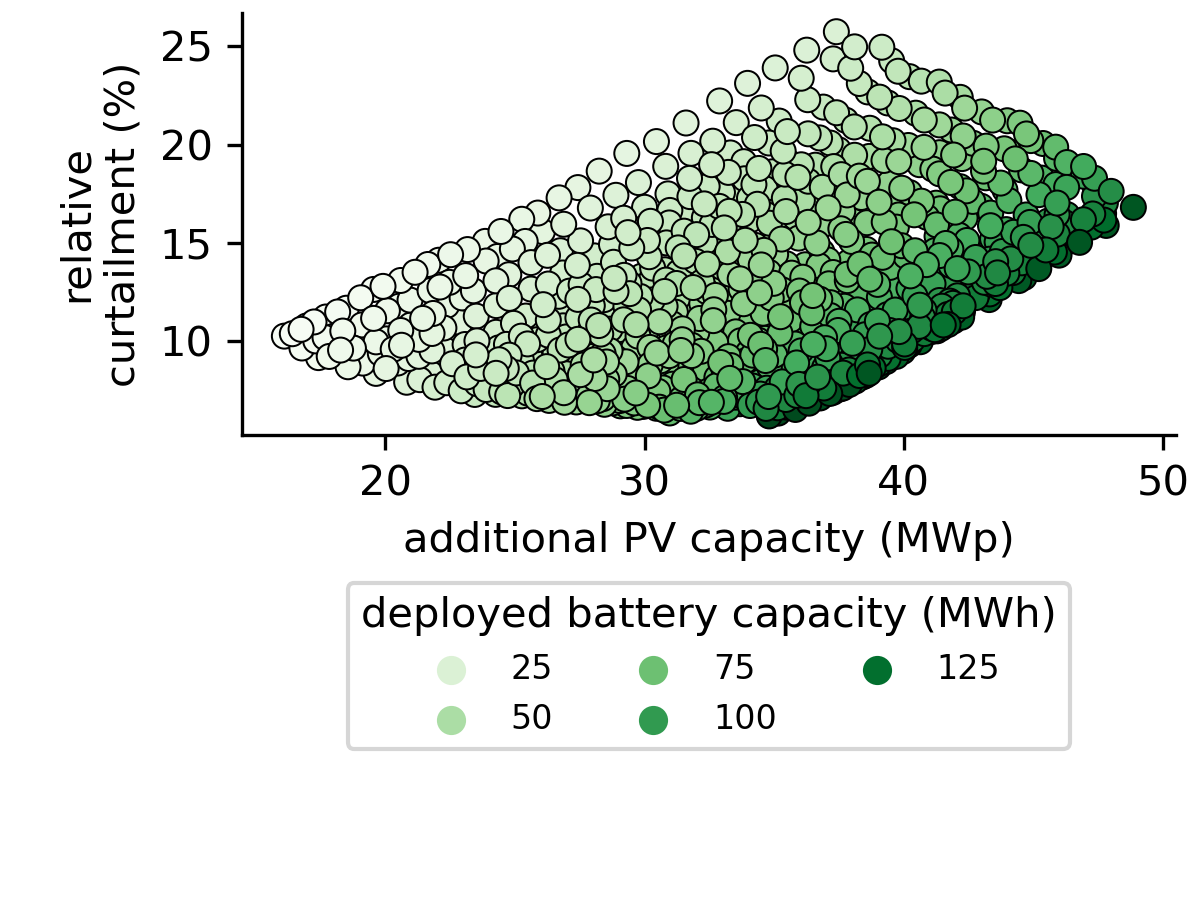
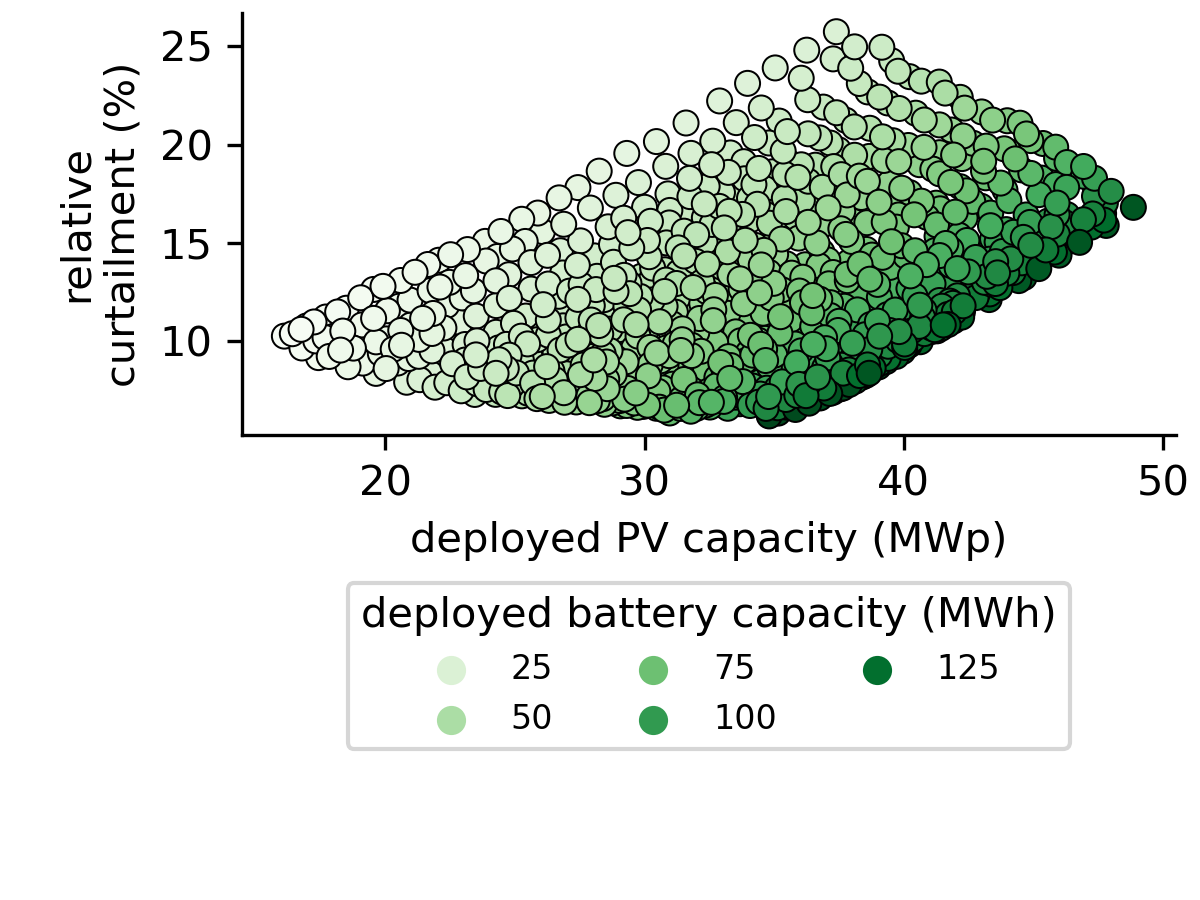
session with emiel

Changed region(s): [[0.3392, 0.56, 0.8633, 0.6222]]

diff --git a/experiments/cablepool/analysis/cablepool_postprocess_figures.py b/experiments/cablepool/analysis/cablepool_postprocess_figures.py
@@ -45,7 +45,7 @@ def determine_cost_for_battery_config(
     power_cost = energy_cost_to_power_cost(energy_cost)
     cost_per_kwh = (storage_duration * energy_cost + power_cost) / storage_duration
 
-    return np.round(cost_per_kwh)
+    return [int(cost) for cost in cost_per_kwh]
 
 
 from functools import partial
@@ -63,7 +63,7 @@ twiny_energy_cost_for_6h_battery = partial(
 from cablepool_postprocess_data import experiments, PV_COST_DICT, BAT_COST_DICT
 
 # experiments
-for experiment in experiments:
+for experiment in ["both_ratios"]:
     dataset_filename = f"{experiment}_additional.pkl"
     IMAGE_FOLDER = FOLDER / "images" / experiment
     IMAGE_FOLDER.mkdir(exist_ok=True, parents=True)
@@ -116,6 +116,7 @@ for experiment in experiments:
             ha="center",
             xytext=(0, 5),
             textcoords="offset points",
+            color="gray",
         )
 
     default_matplotlib_save(fig, IMAGE_FOLDER / "pv_deployment_vs_cost_z_battery.png")
@@ -145,7 +146,7 @@ for experiment in experiments:
     ax2.set_xlim(ax.get_xlim())
     ax2.set_xticks(bottom_xticks)
     ax2.set_xticklabels(twiny_energy_cost_for_6h_battery(bottom_xticks))
-    ax2.set_xlabel("2h battery capacity cost (€/kWh)")
+    ax2.set_xlabel("6h battery capacity cost (€/kWh)")
 
     ax.legend(
         bbox_to_anchor=(0.5, -0.2),
@@ -167,9 +168,11 @@ for experiment in experiments:
         ax.annotate(
             f"{year}",
             xy=(mean, y),
-            ha="center",
-            xytext=(0, 1),
+            ha="right",
+            va="top",
+            xytext=(-1, -1),
             textcoords="offset points",
+            color="gray",
         )
     default_matplotlib_save(fig, IMAGE_FOLDER / "battery_deployment_vs_cost_z_pv.png")
 
@@ -255,8 +258,10 @@ for experiment in experiments:
         edgecolor="black",
     )
 
-    ax.set_xlabel("additional PV capacity (MWp)")
+    ax.set_xlabel("deployed PV capacity (MWp)")
     ax.set_ylabel("relative\ncurtailment (%)")
+    ax.ylim = (0, 21)
+    ax.set_yticks([0, 5, 10, 15, 20])
 
     ax.legend(
         bbox_to_anchor=(0.5, -0.35),
@@ -280,6 +285,8 @@ for experiment in experiments:
     fig, ax = default_matplotlib_style(fig, ax)
     fig.set_size_inches(4, 3)
 
+    df["curtailment"] = df["curtailment"] / 1000
+
     sns.scatterplot(
         x=pv_dc_col,
         y="curtailment",
@@ -290,10 +297,12 @@ for experiment in experiments:
         edgecolor="black",
     )
 
-    ax.set_xlabel("additional PV capacity (MWp)")
-    ax.set_xticks(relplot_ticks)
-    ax.set_xticklabels(relplot_labels)
-    ax.set_ylabel("curtailment (MWh)")
+    ax.set_xlabel("deployed PV capacity (MWp)")
+    ax.set_ylabel("absolute\ncurtailment (GWh)")
+
+    ## set y ticks
+    ax.ylim = (0, 16)
+    ax.set_yticks([0, 5, 10, 15])
 
     ax.legend(
         bbox_to_anchor=(0.5, -0.35),
@@ -349,6 +358,7 @@ for experiment in experiments:
             ha="center",
             xytext=(0, 5),
             textcoords="offset points",
+            color="gray",
         )
 
     default_matplotlib_save(
@@ -390,7 +400,6 @@ for experiment in experiments:
 
     # DC ratio plots for only both ratio experiments
     if experiment == "both_ratios":
-
         vmin, vmax = 1.4, 2
         cmap = sns.color_palette(palette="YlOrBr", as_cmap=True)
         norm = plt.Normalize(vmin=vmin, vmax=vmax)

diff --git a/experiments/cablepool/analysis/data_only.py b/experiments/cablepool/analysis/data_only.py
@@ -1,0 +1,69 @@
+# %%
+import pandas as pd
+from pathlib import Path
+
+# %% constants
+FOLDER = Path(__file__).parent
+RESULT_FOLDER = FOLDER.parent / "results"
+RESOURCE_FOLDER = FOLDER / "resources"
+PV_COST_RANGE = (170, 420)
+BATTERY_ENERGY_COST_RANGE = (46, 299)
+BATTERY_POWER_COST_RANGE = (40, 510)
+
+
+# %% open loop for all PV_ts
+
+from cablepool_postprocess_data import experiments
+
+dfs = []
+# experiments
+for experiment in experiments:
+    dataset_filename = f"{experiment}_additional.pkl"
+
+    # read in data
+    df = pd.read_pickle(RESOURCE_FOLDER / dataset_filename)
+    df["pv_cost"] = df["pv_cost"] * 1000
+    df["battery_cost"] = df["battery_cost"] * 1000
+    dfs.append(df)
+
+# %%
+
+mid_prices = {
+    "pv": {
+        "2020": 398,
+        "2030": 266,
+        "2050": 199,
+    },
+    "battery": {
+        "2020": 367,
+        "2030": 222,
+        "2050": 105,
+    },
+}
+
+YEARS = ["2020", "2030", "2050"]
+TECHS = ["pv", "battery"]
+
+
+def get_closest_id(df, pv_cost, battery_cost):
+    distance = abs(df["pv_cost"] - pv_cost) + abs(df["battery_cost"] - battery_cost)
+    return df.loc[distance.idxmin(), "filename_export"]
+
+
+for df in dfs:
+    selected_ids = {
+        experiment: {
+            year: get_closest_id(
+                df,
+                mid_prices["pv"][year],
+                mid_prices["battery"][year],
+            )
+            for year in YEARS
+        }
+        for experiment in experiments
+    }
+
+import json
+
+with open(RESOURCE_FOLDER / "selected_ids.json", "w") as f:
+    json.dump(selected_ids, f, indent=2)

diff --git a/230418 aantekeningen met Emiel.md b/230418 aantekeningen met Emiel.md
@@ -8,17 +8,17 @@
 
 ### To do
 
-- [ ] cost vs. cost - grafieken range 2050 en 2020 (blokken)
+- [x] cost vs. cost - grafieken range 2050 en 2020 (blokken)
 - [ ] Nieuwe figuur maken met DC ratio als kleur op de z-as (laag)
 - [ ] cost vs. cost - Punten van 20 - 30 - 50
-  - [ ] 2020 mid waarde is ID 171 (both)
-  - [ ] 2030 mid waarde is ID 792 (both)
-  - [ ] 2050 mid waarde is ID 576 (both)
+  - [ ] 2020 mid waarde is ID cablepooling_paper_v2_exp_168548892478198.json (both)
+  - [ ] 2030 mid waarde is ID cablepooling_paper_v2_exp_110088832558956.json (both)
+  - [ ] 2050 mid waarde is ID cablepooling_paper_v2_exp_215620213215519.json (both)
   - [ ] Alleen bij pvcost vs batcost vs pv cap met label
   - [ ] Per jaar jaar een kleur
-- [ ] 2h battery twinx veranderen naar 6-hour afgerond naar int (label = "6-hour battery cost")
-- [ ] abs_curtailment grafiek -> label veranderen naar 'absolute curtailment'
-- [ ] Bij curtailment plaatjes -> deployed capacity
+- [x] 2h battery twinx veranderen naar 6-hour afgerond naar int (label = "6-hour battery cost")
+- [x] abs_curtailment grafiek -> label veranderen naar 'absolute curtailment'
+- [x] Bij curtailment plaatjes -> deployed capacity
 - [ ] Grafieken met twinx ==> vline label onder de lijn naar rechts
 - [ ] Nieuwe grafiek maken met x = invest, y = net_profit, z = roi
 - [ ] Dwingen naar meer punten (6) en op min en max; Colorbar in plaats van legend https://stackoverflow.com/questions/49761221/make-seaborn-show-a-colorbar-instead-of-a-legend-when-using-hue-in-a-bar-plot
